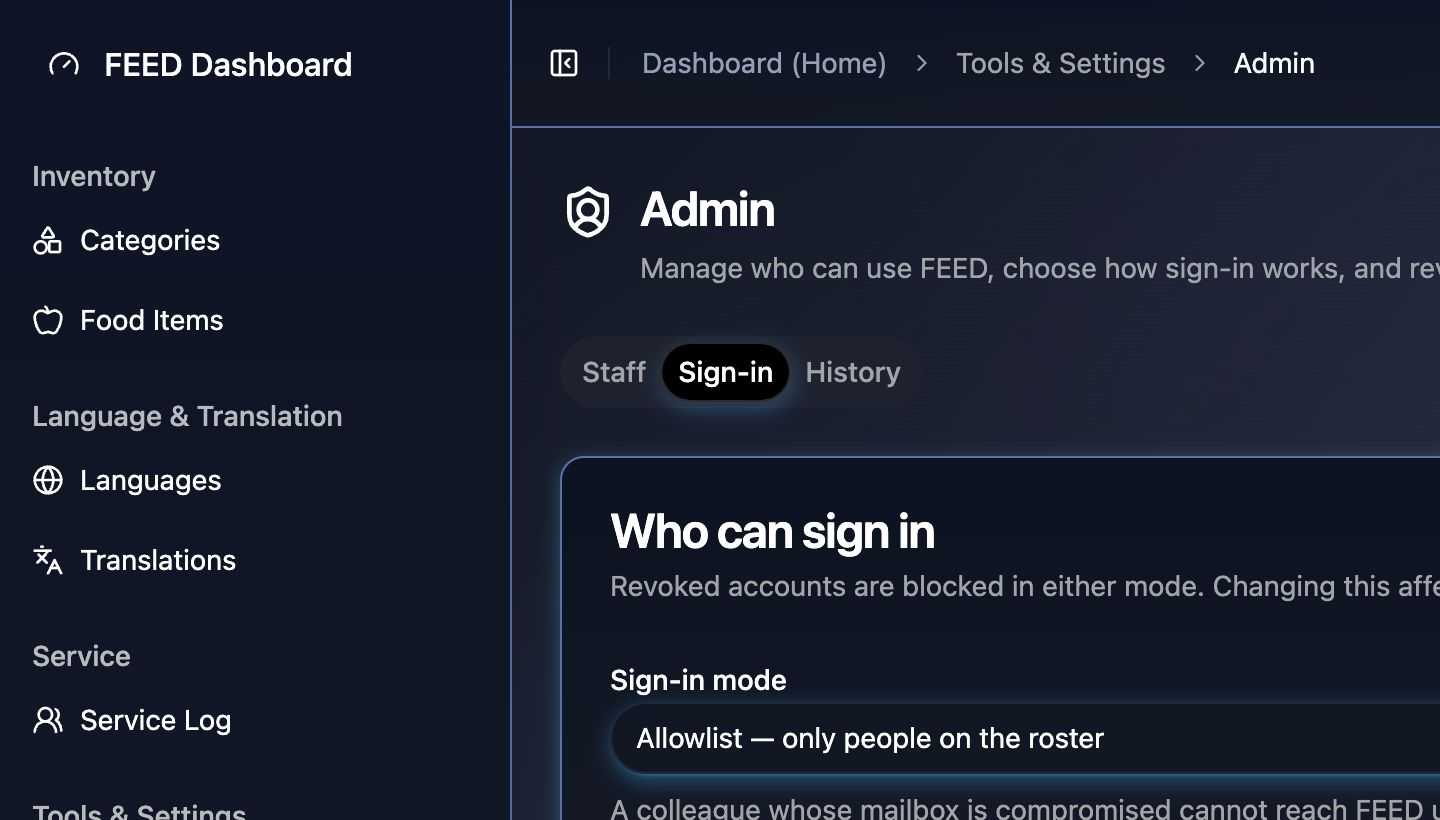
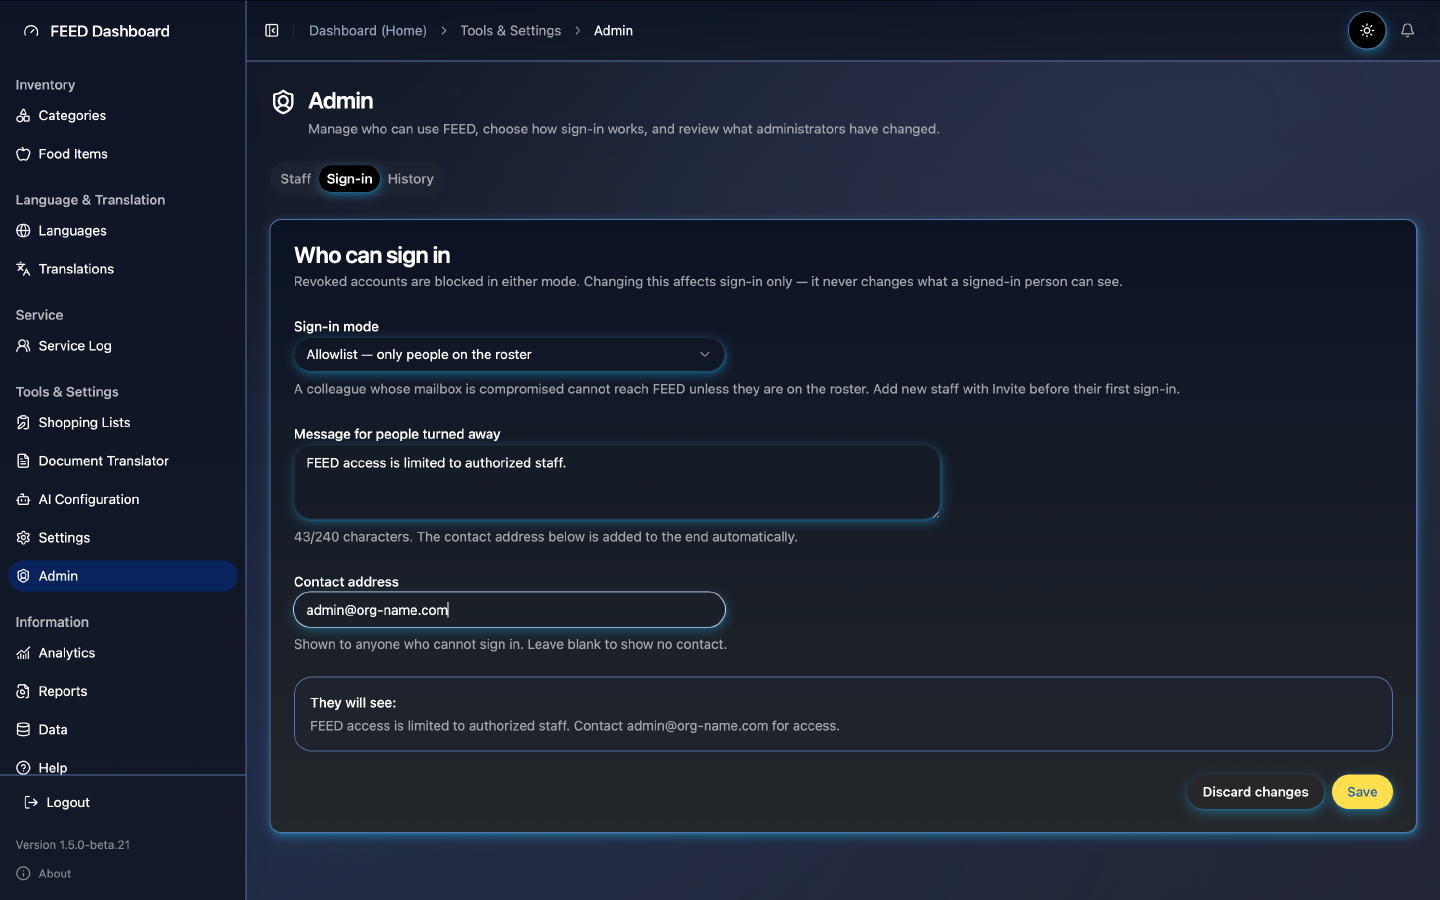
docs(help): re-capture Admin with a placeholder contact address
Both admin-overview captures are now a correct 1440x900 rather than the earlier
1440x820 rendered at roughly 2x zoom, which cut the card text off mid-sentence.

The contact address reads `admin@org-name.com` instead of the org's real one.
That is a better answer than either option I put forward — cropping below the
notice would have distorted the framing, and showing the real address put it in
a public repository. It is also more correct for a product other agencies will
adopt: a reader should see the shape of the setting, not this agency's value.

Recorded as a capture rule, because it generalises past this screen. Where a
screenshot would show a real address or identifier, type a placeholder into the
field and capture that. Do not save the change.

The Sign-in tab remains the right frame for Admin — it shows how access is
governed without putting the staff roster on screen.

Changed region(s): [[0.0, 0.0, 1.0, 1.0], [0.1875, 0.1829, 0.3125, 0.2439], [0.0, 0.7622, 0.0938, 0.8232]]

diff --git a/docs/user-guides/screenshot-plan.md b/docs/user-guides/screenshot-plan.md
@@ -11,6 +11,12 @@ telling the reader what to do.
 - Capture both light and dark mode for every in-app screenshot so the guide
   matches the reader's current theme.
 - Update the matching guide when a screenshot is added.
+- **Type a placeholder into the field rather than cropping around it.** Where a
+  screen shows a real address or identifier, edit the input to a generic value —
+  `admin@org-name.com` — and capture that. Better than cropping, which distorts
+  the framing, and better than skipping, which leaves the guide blind. It is
+  also more correct for a product other agencies will adopt: the reader should
+  see the shape of the setting, not this agency's value. Do not save the change.
 - Store in-app help screenshots in `packages/frontend/public/help-screenshots/`
   and reference them from guides with `/help-screenshots/file-name.png`.
 - Use the base filename for the light screenshot and the matching `-dark`
@@ -133,16 +139,5 @@ after starting an import; the capture session stopped before that write.
 
 ## Known gaps, 2026-08-19
 
-- **`admin-overview` needs re-capturing.** The current pair rendered at roughly
-  2x zoom (1440x820 of device pixels covering about 720 CSS pixels), so the card
-  text is cut off at the right edge. Every other capture is a correct 1440x900.
-- **Capturing Admin correctly re-introduces a decision.** The Sign-in tab avoids
-  the staff roster, which is why it was chosen over the Staff tab — but the
-  sign-in notice carries `technology@williamtemple.org` at y=746, inside the
-  900px fold. The present capture excludes it only by accident of the zoom. A
-  corrected full-height capture would show it. It is a role address the app
-  displays to every user rather than anyone's personal address, but this
-  repository is public. Ask before capturing it; framing at 1440x730 excludes
-  the notice if the answer is no.
 - **`add-data-review` not captured.** Reconciliation totals appear only after an
   import begins, and capturing it means writing data. Correctly skipped.
